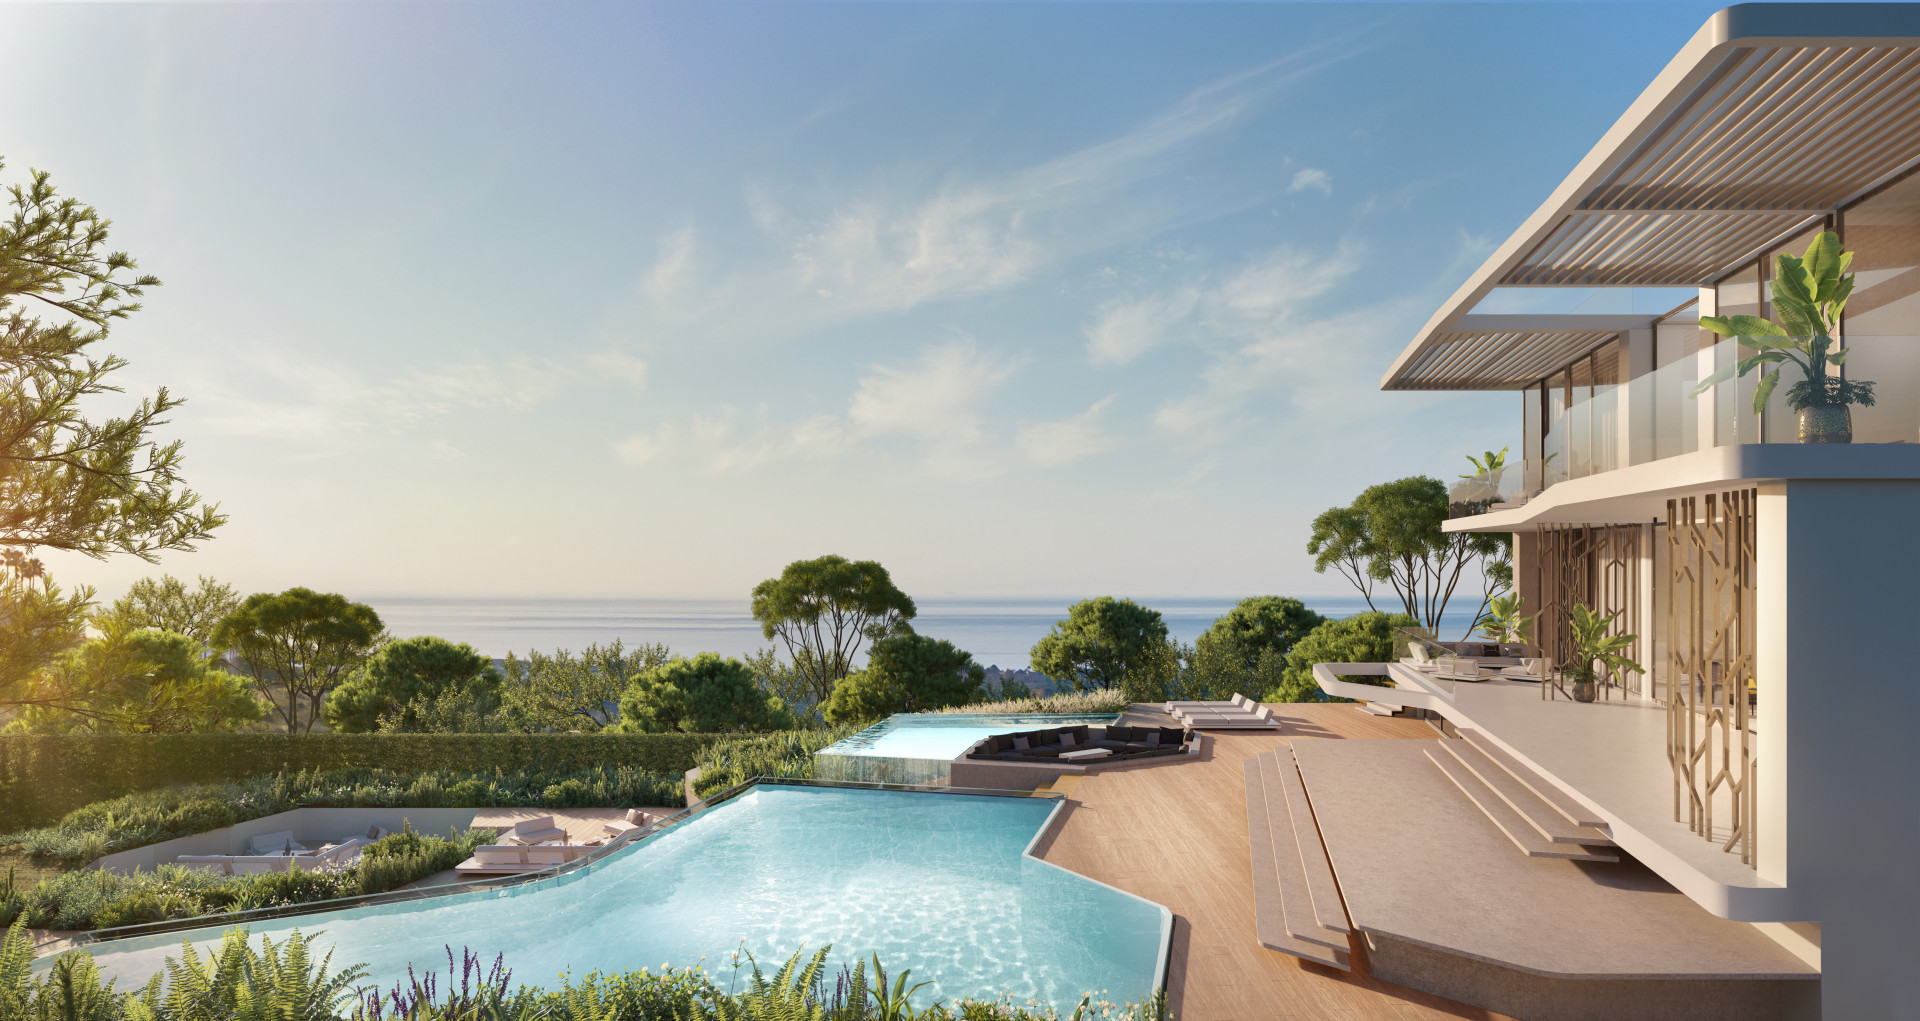
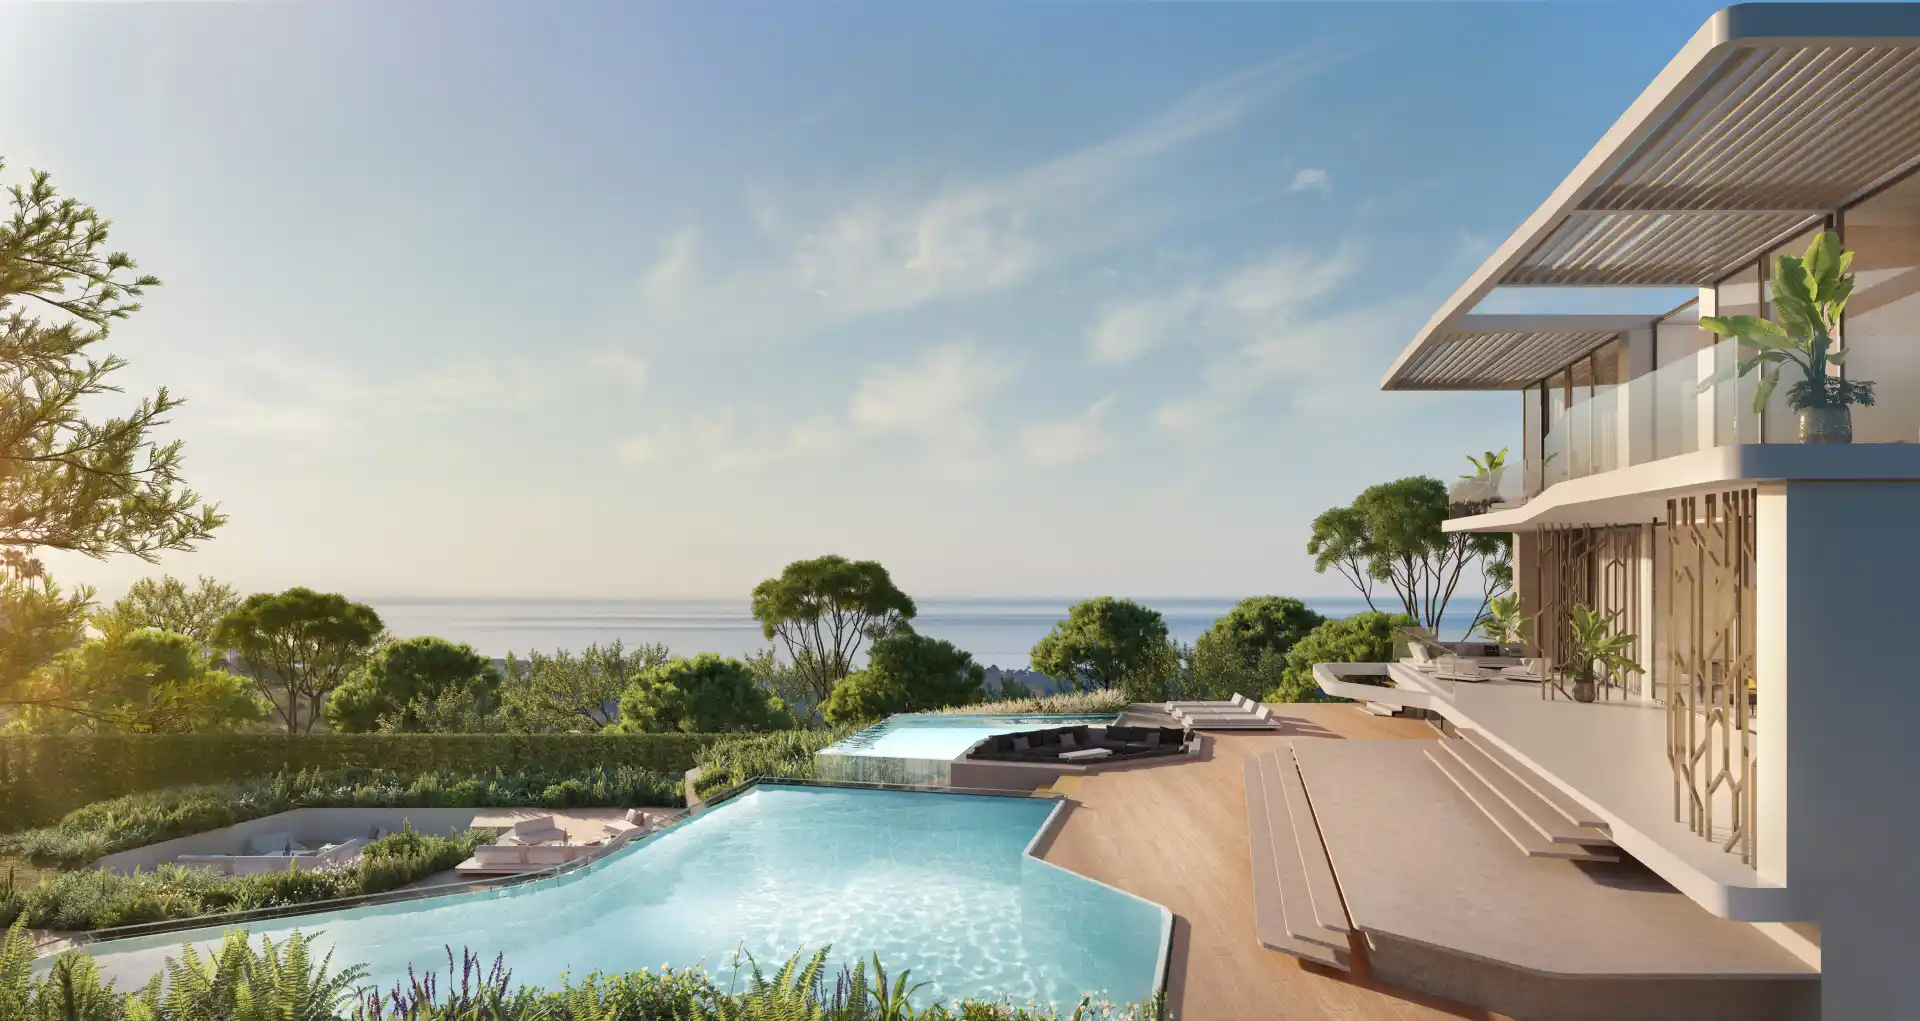
optim photo

diff --git a/src/app/[locale]/interiorAll/[projectId]/page.jsx b/src/app/[locale]/interiorAll/[projectId]/page.jsx
@@ -14,34 +14,48 @@ import { Gallery } from "../../../../components/gallery/index";
 
 export async function generateMetadata({ params: { locale, projectId } }) {
   const project = sliders.find((item) => item.id === projectId);
-  if (project)
+  if (project) {
     return {
       title: camelCaseToWords(project.id) + " - Garcia Global",
     };
+  }
 }
+
+const excludedProjects = [
+  "villarenovation",
+  "goodlifepark",
+  "villacartagena",
+  "townhousealbacete",
+  "penthousevalencia",
+  "obolonapartment",
+  "mynystercki",
+  "kyivlakehouse",
+  "eliteresidentialcomplexinkyiv",
+];
 
 export default async function ProjectPage({ params: { locale, projectId } }) {
   const project = sliders.find((item) => item.id === projectId);
-  // List of project IDs where advantages and ProjectItemAdv should not appear
-  const excludedProjects = [
-    "villarenovation",
-    "goodlifepark",
-    "villacartagena",
-    "townhousealbacete",
-    "penthousevalencia",
-    "obolonapartment",
-    "mynystercki",
-    "kyivlakehouse",
-    "eliteresidentialcomplexinkyiv",
-  ];
-
-  // Only include advantages if the project ID is not in the excluded list
+  
+  if (!project) {
+    redirect("/");
+    return null;
+  }
+  
   const showAdvantages = !excludedProjects.includes(projectId);
   const advantages = showAdvantages ? ["kitchen", "livingroom", "bathroom"] : [];
-  
-  if (!project) redirect("/");
   const i18nNamespaces = [projectId];
   const { t, resources } = await initTranslations(locale, i18nNamespaces);
+
+  const ProjectAdv = () => (
+    !excludedProjects.includes(projectId) && (
+      <ProjectItemAdv
+        locale={locale}
+        flex="start"
+        projectId={projectId}
+        loading="lazy"
+      />
+    )
+  );
 
   return (
     <TranslationsProvider
@@ -60,21 +74,14 @@ export default async function ProjectPage({ params: { locale, projectId } }) {
                 <div className={styles.project__leftSideContent}>
                   <div className={styles.project__leftSideTitleContainer}>
                     <h1>{t("name")}</h1>
-                    <div className="">
+                    <div>
                       <p>{t("location")}</p>
                       <p>{t("designStyle")}</p>
                       <p>{t("architecturalFusion")}</p>
                       <p>{t("ambience")}</p>
                     </div>
                   </div>
-                  {/* Only render ProjectItemAdv if not in excludedProjects */}
-                  {!excludedProjects.includes(projectId) && (
-                    <ProjectItemAdv
-                      locale={locale}
-                      flex="start"
-                      projectId={projectId}
-                    />
-                  )}
+                  <ProjectAdv />
                   <p>{t("descr")}</p>
                 </div>
                 <Gallery img={project["allImgs"]} />
@@ -85,6 +92,7 @@ export default async function ProjectPage({ params: { locale, projectId } }) {
                 height={773}
                 width={512}
                 className={styles.project__mainImg}
+                loading="lazy"
               />
             </div>
             <div className={styles.project__topContentPhone}>
@@ -95,20 +103,14 @@ export default async function ProjectPage({ params: { locale, projectId } }) {
                   <p>{t("architecturalFusion")}</p>
                 </div>
                 <div className={styles.project__topImgNAdvContainerPhone}>
-                  {/* Only render ProjectItemAdv if not in excludedProjects */}
-                  {!excludedProjects.includes(projectId) && (
-                    <ProjectItemAdv
-                      locale={locale}
-                      flex="start"
-                      projectId={projectId}
-                    />
-                  )}
+                  <ProjectAdv />
                   <img
                     src={project.mainImg}
                     alt="mainImg"
                     height={773}
                     width={512}
                     className={styles.project__mainImg}
+                    loading="lazy"
                   />
                 </div>
               </div>
@@ -127,6 +129,7 @@ export default async function ProjectPage({ params: { locale, projectId } }) {
               imgs={project[item]}
               textColor="white"
               arrowColor="white"
+              loading="lazy"
             />
           ))}
         </Container>

diff --git a/src/components/ui/icons/map/house.jsx b/src/components/ui/icons/map/house.jsx
@@ -13,7 +13,7 @@ export const House = ({ bgColor }) => {
         d="M38.5788 18.5547L54.071 28.7542L54.1574 42.0221H6.60938V28.6635L38.5788 18.5547Z"
         fill={bgColor}
         stroke="#717171"
-        stroke-width="1.41111"
+        strokewidth="1.41111"
         stroke-miterlimit="10"
         stroke-linecap="round"
         stroke-linejoin="round"
@@ -21,7 +21,7 @@ export const House = ({ bgColor }) => {
       <path
         d="M57.6962 28.5841L38.5062 16.1328L2.98438 27.2435"
         stroke="#717171"
-        stroke-width="1.41111"
+        strokewidth="1.41111"
         stroke-miterlimit="10"
         stroke-linecap="round"
         stroke-linejoin="round"
@@ -30,7 +30,7 @@ export const House = ({ bgColor }) => {
         d="M30 30H26V42H30V30Z"
         fill={bgColor}
         stroke="#717171"
-        stroke-width="1.41111"
+        strokewidth="1.41111"
         stroke-miterlimit="10"
         stroke-linecap="round"
         stroke-linejoin="round"
@@ -39,7 +39,7 @@ export const House = ({ bgColor }) => {
         d="M23 30H19V42H23V30Z"
         fill={bgColor}
         stroke="#717171"
-        stroke-width="1.41111"
+        strokewidth="1.41111"
         stroke-miterlimit="10"
         stroke-linecap="round"
         stroke-linejoin="round"
@@ -48,7 +48,7 @@ export const House = ({ bgColor }) => {
         d="M42 30H32V42H42V30Z"
         fill={bgColor}
         stroke="#717171"
-        stroke-width="1.41111"
+        strokewidth="1.41111"
         stroke-miterlimit="10"
         stroke-linecap="round"
         stroke-linejoin="round"
@@ -56,7 +56,7 @@ export const House = ({ bgColor }) => {
       <path
         d="M58.9973 43.8672H0.789062"
         stroke="#717171"
-        stroke-width="1.41111"
+        strokewidth="1.41111"
         stroke-miterlimit="10"
         stroke-linecap="round"
         stroke-linejoin="round"
@@ -65,7 +65,7 @@ export const House = ({ bgColor }) => {
         d="M9.06554 36.5686C11.1814 36.5686 12.8967 34.8533 12.8967 32.7374C12.8967 30.6215 11.1814 28.9062 9.06554 28.9062C6.94964 28.9062 5.23438 30.6215 5.23438 32.7374C5.23438 34.8533 6.94964 36.5686 9.06554 36.5686Z"
         fill="white"
         stroke="#717171"
-        stroke-width="1.41111"
+        strokewidth="1.41111"
         stroke-miterlimit="10"
         stroke-linecap="round"
         stroke-linejoin="round"
@@ -73,7 +73,7 @@ export const House = ({ bgColor }) => {
       <path
         d="M9.0625 34.2969V43.3957"
         stroke="#717171"
-        stroke-width="1.41111"
+        strokewidth="1.41111"
         stroke-miterlimit="10"
         stroke-linecap="round"
         stroke-linejoin="round"
@@ -82,7 +82,7 @@ export const House = ({ bgColor }) => {
         d="M56.0776 37.7958C57.8118 37.7958 59.2176 36.3899 59.2176 34.6557C59.2176 32.9215 57.8118 31.5156 56.0776 31.5156C54.3434 31.5156 52.9375 32.9215 52.9375 34.6557C52.9375 36.3899 54.3434 37.7958 56.0776 37.7958Z"
         fill="white"
         stroke="#717171"
-        stroke-width="1.41111"
+        strokewidth="1.41111"
         stroke-miterlimit="10"
         stroke-linecap="round"
         stroke-linejoin="round"
@@ -90,7 +90,7 @@ export const House = ({ bgColor }) => {
       <path
         d="M56.0781 35.9297V43.3881"
         stroke="#717171"
-        stroke-width="1.41111"
+        strokewidth="1.41111"
         stroke-miterlimit="10"
         stroke-linecap="round"
         stroke-linejoin="round"

diff --git a/src/components/ui/icons/map/map.jsx b/src/components/ui/icons/map/map.jsx
@@ -125,7 +125,7 @@ export const MapIcon = ({ className }) => {
       <path
         d="M453.358 498.317C516.505 461.816 553.766 486.476 574.516 516.075C577.559 520.415 583.41 522.032 588.122 519.606C742.083 440.36 772.311 451.534 822.844 446.948C862.63 443.337 1036.74 468.525 1127.16 482.863C1132.29 483.675 1137.19 480.421 1138.37 475.368C1156.41 397.904 1145.22 366.972 1136.2 351.221C1126.85 334.877 1096.45 337.212 1080.08 299.855C1070.52 278.032 1072.01 248.241 1075.64 226.483C1077.01 218.26 1068.42 210.122 1060.14 211.087C986.645 219.648 825.655 171.029 785.427 122.41C749.882 79.4495 723.846 68.7094 715.272 68.7094C616.914 60.0952 568.029 25.6582 552.468 5.70602C550.282 2.9034 547.056 0.976603 543.507 1.18044C528.95 2.01671 503.287 5.97007 483.758 17.3436C455.696 33.6873 406.587 159.767 399.572 173.776C392.556 187.784 362.156 208.798 327.078 232.146C300.836 249.612 292.999 287.496 292.092 307.611C291.979 310.131 292.931 312.517 294.609 314.399C352.199 378.976 409.587 523.618 453.358 498.317Z"
         stroke="white"
-        stroke-width="0.5"
+        strokewidth="0.5"
         stroke-linecap="round"
       />
       <g className={className}>
@@ -141,7 +141,7 @@ export const MapIcon = ({ className }) => {
       <path
         d="M451.5 512C512.644 476.524 549.694 502.722 564.354 525.093C567.043 529.195 565.515 534.52 561.226 536.899C518.392 560.66 388.769 605.746 382 600.505C366.5 588.505 97.5 524.505 81 615.505C69.2053 680.555 30.9835 693.229 7.64042 691.266C3.08817 690.884 0 686.81 0 682.242V336.202C0 331.215 3.66797 326.988 8.61048 326.326C97.8207 314.367 261.292 300.299 278.5 322.506C337 398 394 545.362 451.5 512Z"
         stroke="white"
-        stroke-width="0.5"
+        strokewidth="0.5"
         stroke-linecap="round"
       />
       <g className={className}>
@@ -157,7 +157,7 @@ export const MapIcon = ({ className }) => {
       <path
         d="M1435.94 422.47C1342.03 490.019 1220.28 495.403 1161.53 488.026C1154.94 487.199 1151.39 480.064 1153.43 473.748C1168.86 426.056 1160.5 341.338 1142.5 336C1070 314.5 1082 214.498 1095.5 200.998C1109 187.498 1440 128.498 1440 158.498V414.53C1440 417.688 1438.51 420.626 1435.94 422.47Z"
         stroke="#F1F1F1"
-        stroke-width="0.5"
+        strokewidth="0.5"
         stroke-linecap="round"
       />
     </svg>

diff --git a/src/app/[locale]/page.jsx b/src/app/[locale]/page.jsx
@@ -84,6 +84,7 @@ export default async function Home({ params: { locale } }) {
             width={300}
             height={350}
             className={styles.ourServices__bearImg}
+            loading="lazy"
           />
         </section>
         <section className={styles.aboutUs} id="aboutUs">
@@ -113,8 +114,7 @@ export default async function Home({ params: { locale } }) {
               </div>
             </div>
           </Container>
-        </section>
-        {/* <Map locale={locale} /> */}
+        </section> 
         <section className={styles.interiorDesing}>
           <Container className={styles.interiorDesing__container}>
             <div className={styles.interiorDesing__titleContainer}>
@@ -243,6 +243,7 @@ export default async function Home({ params: { locale } }) {
             width={430}
             height={520}
             className={styles.findUs__bearImg}
+            loading="lazy"
           />
         </section>
       </main>

diff --git a/src/components/ui/icons/phone.jsx b/src/components/ui/icons/phone.jsx
@@ -12,13 +12,13 @@ export const Phone = ({ color, width, height }) => {
       <path
         d="M13 6C13 6 14.4689 6.21885 16.125 7.875C17.7811 9.53115 18 11 18 11"
         stroke={color}
-        stroke-width="1.5"
+        strokewidth="1.5"
         stroke-linecap="round"
       />
       <path
         d="M13 3C13 3 15.3502 3.35016 18 6C20.6498 8.64984 21 11 21 11"
         stroke={color}
-        stroke-width="1.5"
+        strokewidth="1.5"
         stroke-linecap="round"
       />
       <path

diff --git a/src/components/mapItem/index.jsx b/src/components/mapItem/index.jsx
@@ -44,7 +44,7 @@ export const MapItem = ({
           <path
             d="M152 1L0.999995 0.999993"
             stroke="url(#paint0_linear_3550_4240)"
-            stroke-width="0.5"
+            strokewidth="0.5"
             stroke-linecap="round"
             stroke-dasharray="3 3"
           />
